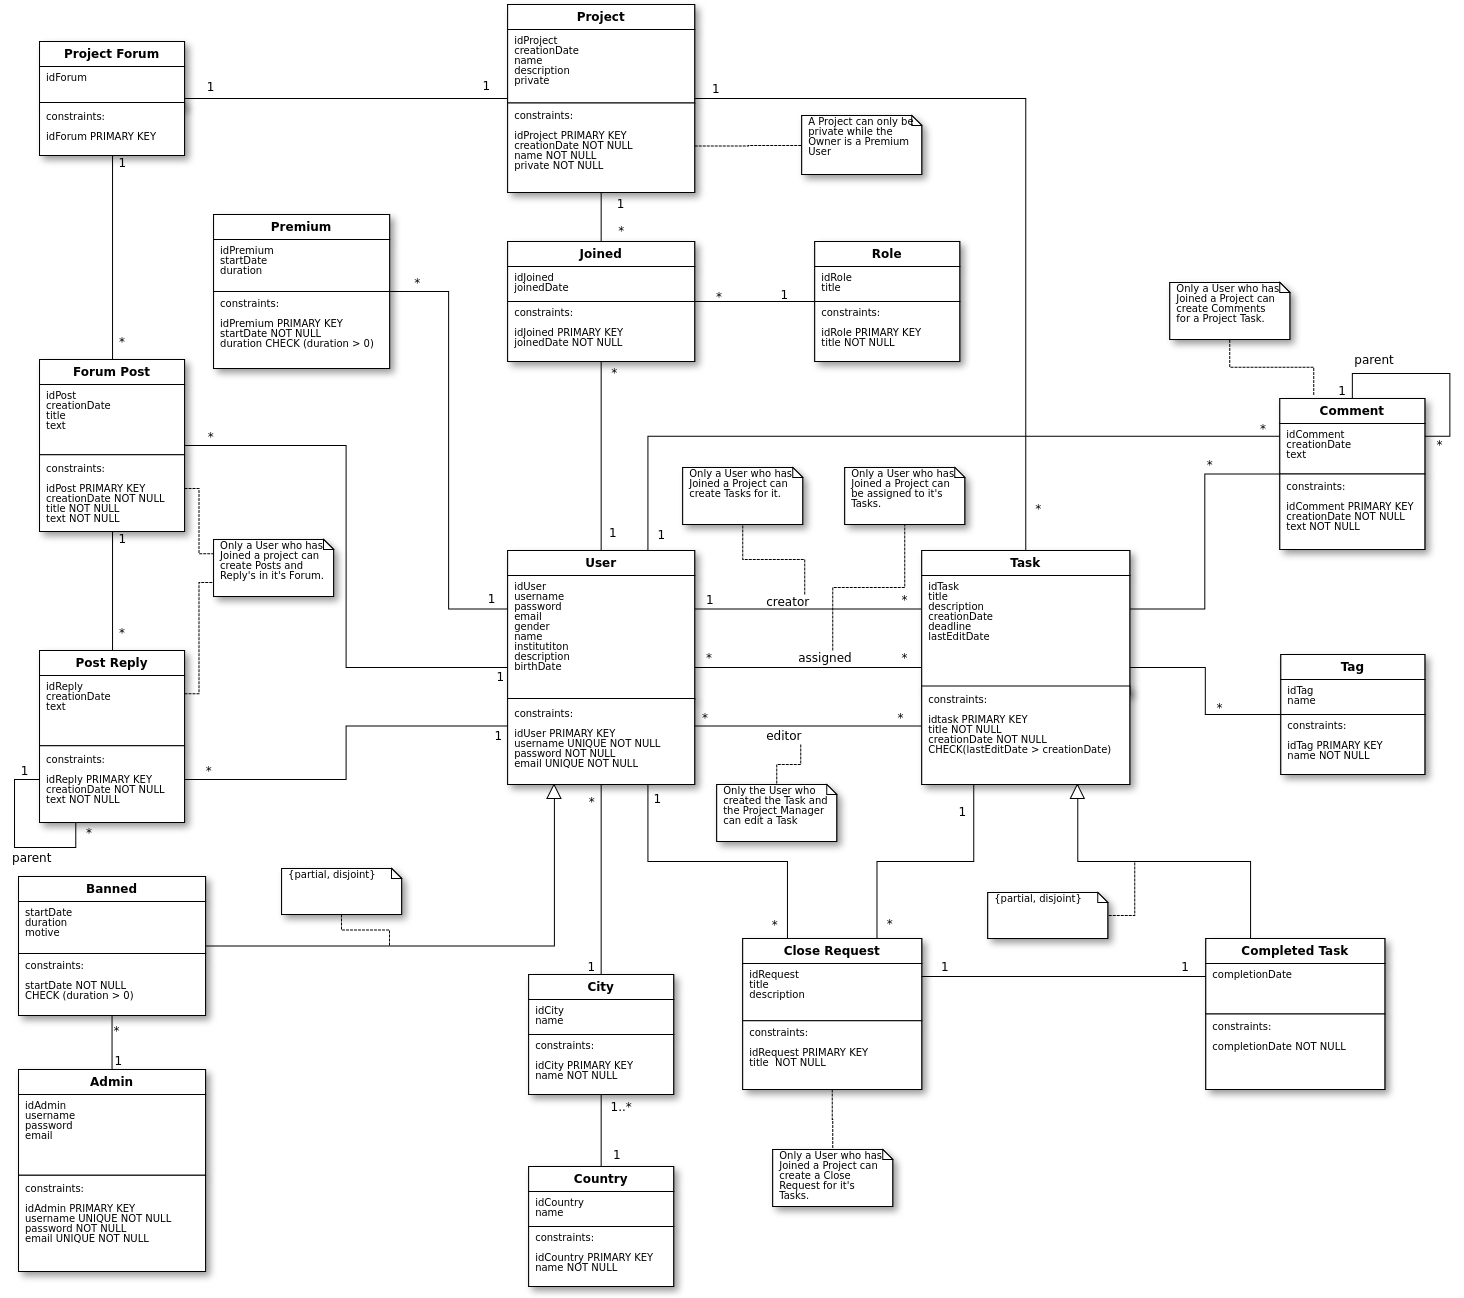
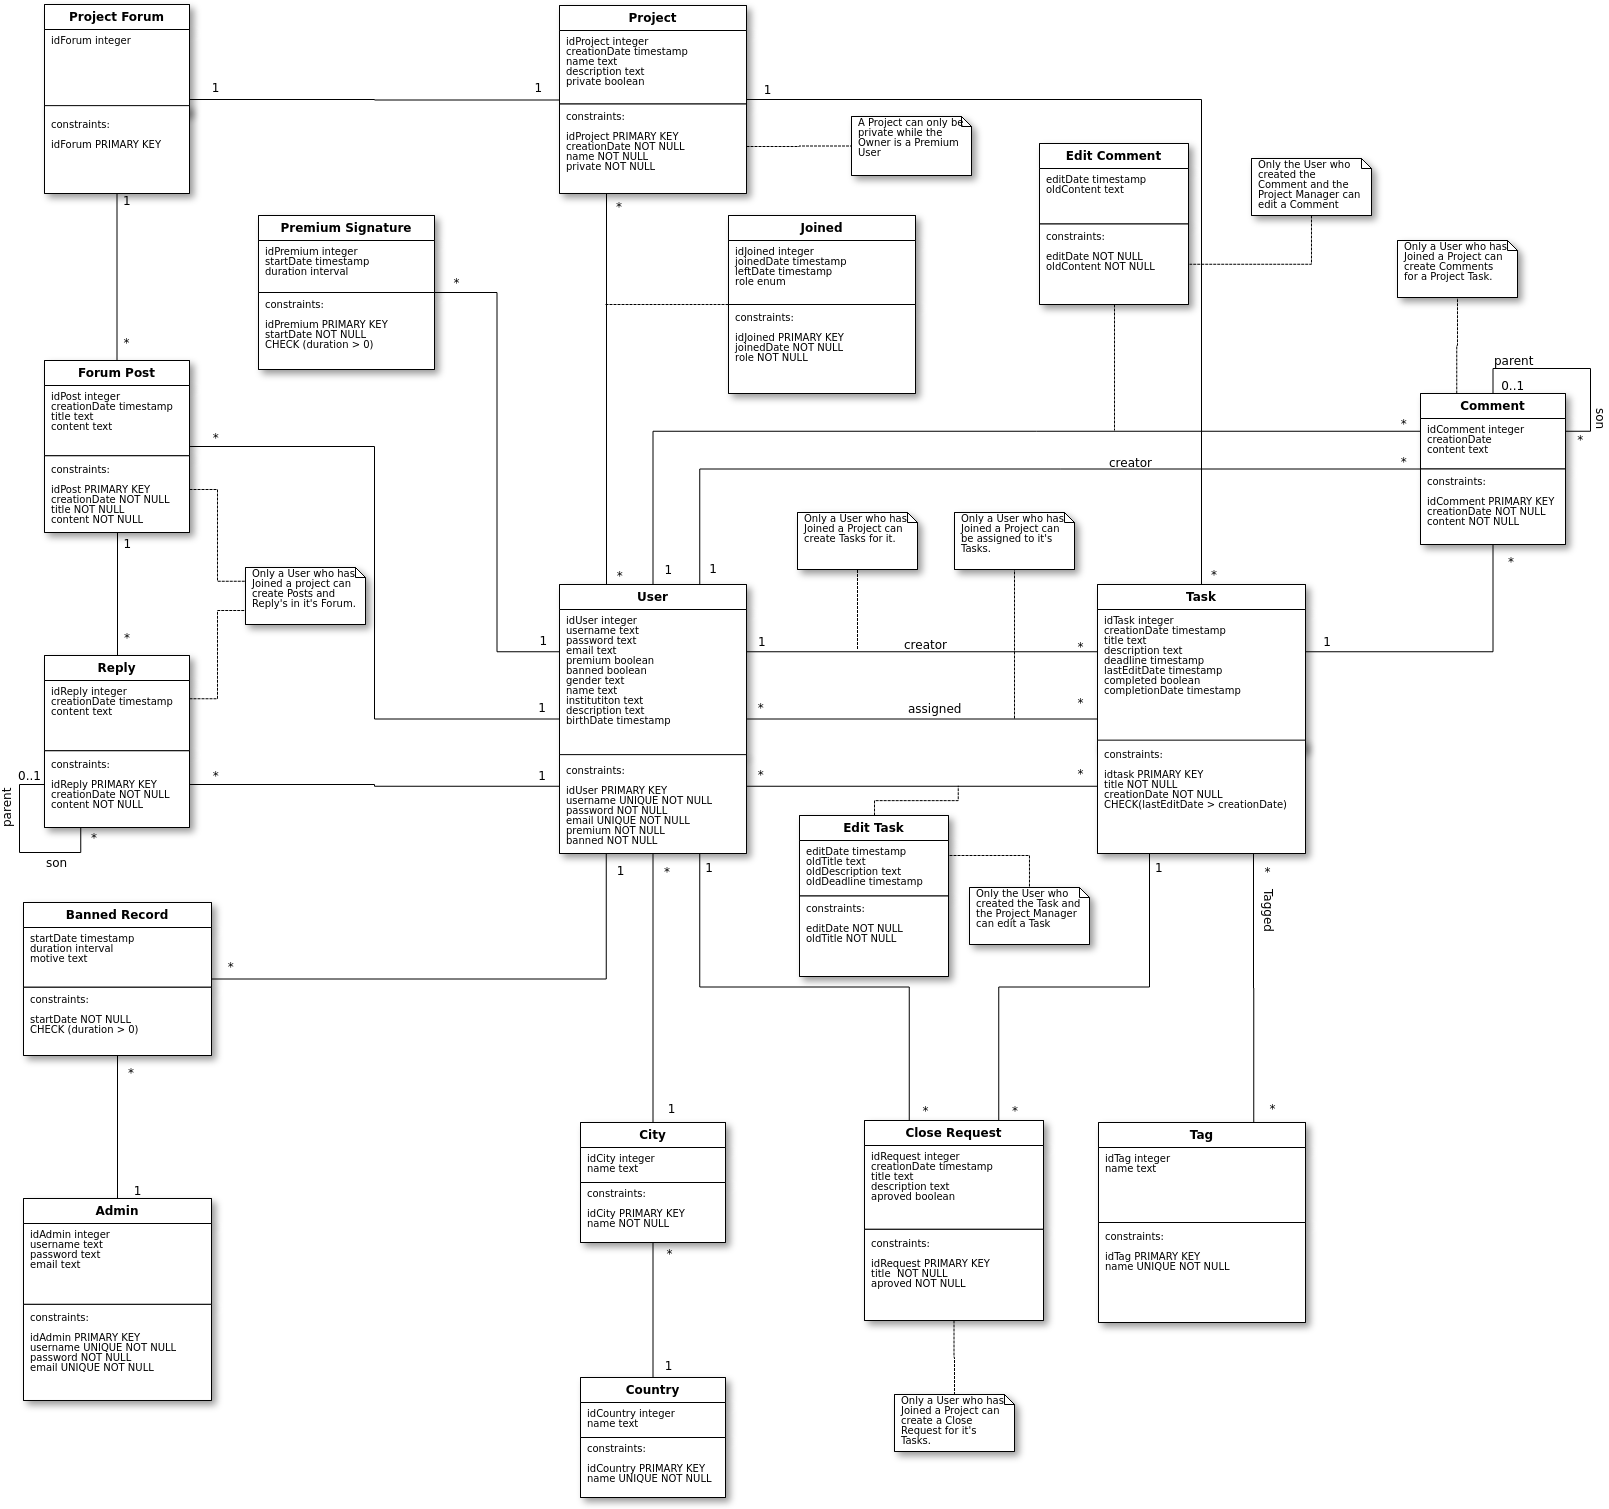
Updated UML & Added revision history to A4.md

diff --git a/artifacts/A4/A4.md b/artifacts/A4/A4.md
@@ -19,18 +19,21 @@ Figure 1: UML Class diagram.
 
 -->
 
-<!--
+
 ***
  ## Revision history
 
 Changes made to the first submission:
-1. Item 1
-1. Item 2
--->
+1. Removed Joined class, instead made it a association class.
+2. Added data types for all attributes.
+3. Improved readability.
+4. Removed both our subclasses for User and Task.
+5. Created Edits association classes.
+6. Fixed some constraints (eg. Country name unique).
 
 ***
 
-GROUP1743, 12/03/2018
+GROUP1743, 18/03/2018
 
 > Mateus Pedroza Cortes Marques, up201601876@fe.up.pt   
 > Bernardo Manuel Costa Barbosa, up201503477@fe.up.pt   
